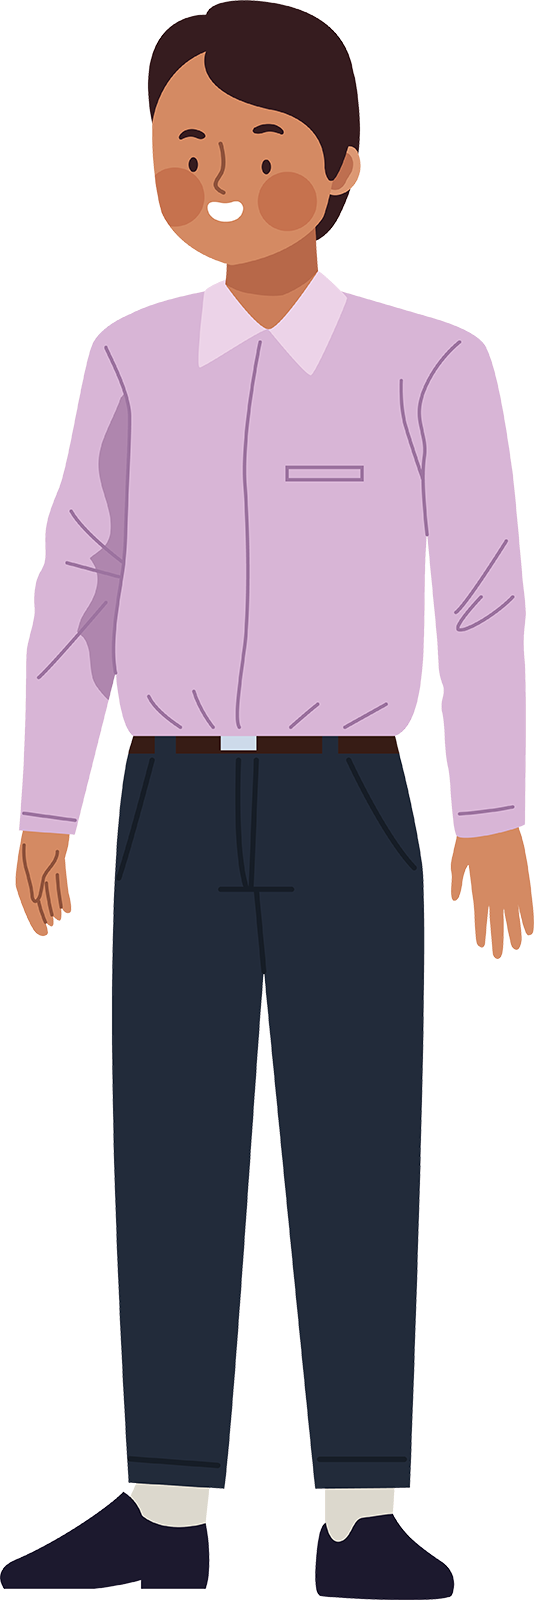
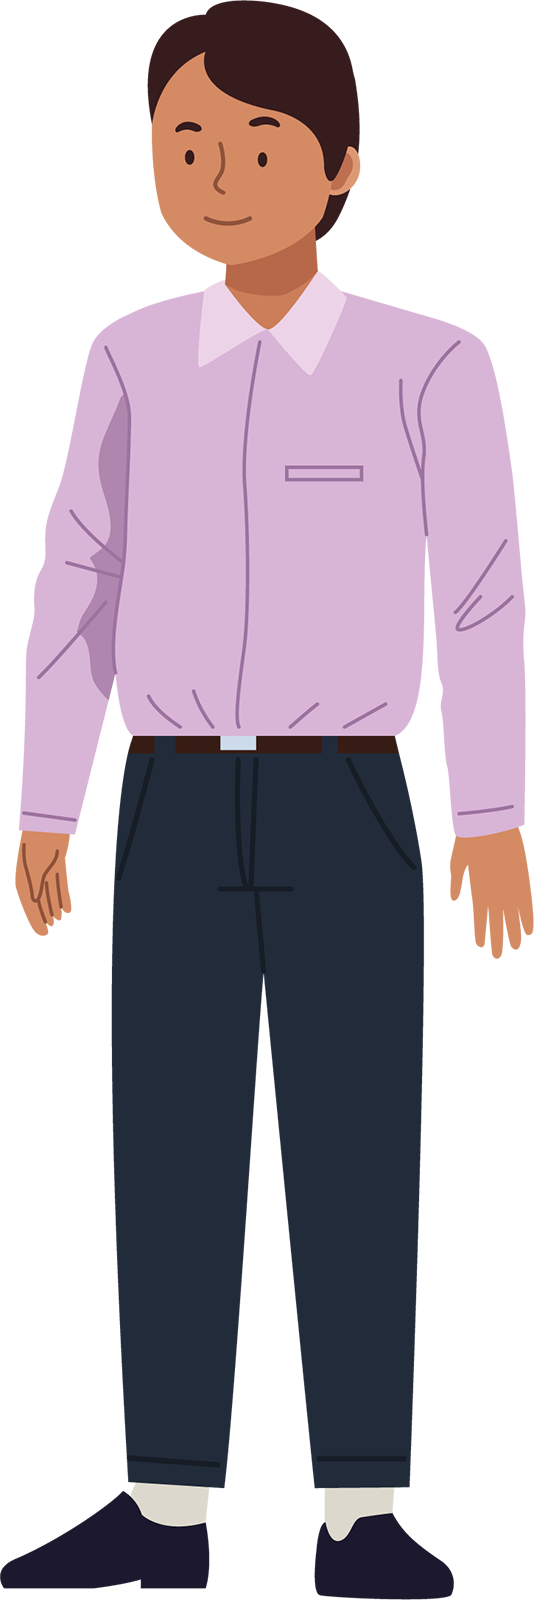
Comisaría terminada

diff --git a/src/scenes/bootScene.js b/src/scenes/bootScene.js
@@ -237,6 +237,7 @@ export default class BootScene extends Phaser.Scene {
         this.load.image('laura', 'laura.png');
         this.load.image('paula', 'paula.png');
         this.load.image('harasser', 'harasser.png');
+        this.load.image('officer', 'officer.png');
     }
 
     loadBackgrounds() {
@@ -256,6 +257,9 @@ export default class BootScene extends Phaser.Scene {
         this.load.image('bedroomBg', 'bedroom.png');
         this.load.image('bedroomNightBg', 'bedroomNight.png');
         this.load.image('dream', 'dream.png');
+
+        this.load.image('policeStationBg', 'policeStation.png');
+
     }
 
     loadCreditsSceneAssets() {

diff --git a/src/scenes/gameLoop/scene6/routeB/Scene6PoliceStationRouteB.js b/src/scenes/gameLoop/scene6/routeB/Scene6PoliceStationRouteB.js
@@ -27,10 +27,11 @@ export default class Scene6PoliceStationRouteB extends BaseScene {
         let dadPortrait = new Portrait(this, "dad", dadTr, "dad");
         this.portraits.set("dad", dadPortrait);
         
-        // PENDIENTE
         // Retrato del agente
         let officerTr = this.portraitTr;
         officerTr.x =  this.CANVAS_WIDTH / 2 - this.CANVAS_WIDTH / 5;
+        officerTr.y += 100;
+        officerTr.scale *= 1.15;
         let officerPortrait = new Portrait(this, "officer", officerTr, "officer")
         officerPortrait.setFlipX(true);
         this.portraits.set("officer", officerPortrait);

diff --git a/src/managers/gameManager.js b/src/managers/gameManager.js
@@ -93,7 +93,7 @@ export default class GameManager {
         this.currentScene.scene.launch(UIsceneName);
         this.UIManager = this.currentScene.scene.get(UIsceneName);
 
-        this.changeScene("Scene6LunchRouteB", {});
+        this.changeScene("Scene6BedroomRouteB", {});
     }
 
 

diff --git a/README.md b/README.md
@@ -14,6 +14,24 @@ Todos los assets utilizados están acreditados con sus enlaces. En caso de no es
 
 Para los fondos, se ha aplicado una combinación de distintos filtros usando Photoshop. Como cada imagen es diferente, no siempre se aplican todos los filtros o con los mismos parámetros, pero el filtro más importante es el de cuarteado, que es con el que se consigue dar un efecto de gráfico vectorizado al fondo, usando la mayoría de veces 8 niveles, simplicidad del borde de entre 3 y 5, y fidelidad del borde 1. Luego, dependiendo de la imagen, se aplican también por encima efectos para modificar el brillo/contraste, y si la imagen pierde demasiado color, se duplica por encima sin filtro y se le aplica el modo de fusión de Color.
 
+* Personajes:
+    * [Madre](https://www.freepik.com/free-psd/flat-design-woman-character-isolated_158212343.htm#fromView=image_search_similar&page=2&position=12&uuid=28b09b97-a183-4cdb-92a0-fc8e91e565b0)
+    * [Padre](https://www.freepik.com/free-vector/elegant-businessman-standing-position-character_73261815.htm#fromView=image_search_similar&page=3&position=16&uuid=718d9d14-2873-4f8d-99da-973c0bd3d1fd)
+    * [Profesor](https://www.freepik.com/free-vector/elegant-businessman-with-folder-character_73261784.htm#fromView=image_search_similar&page=1&position=0&uuid=b767bb75-f73a-4137-b8c5-f0db54f51024)
+    * [Laura](https://www.freepik.es/psd-gratis/diseno-plano-mujer-caracter-aislado_158212345.htm)
+    * [Paula](https://www.freepik.es/psd-gratis/diseno-plano-mujer-caracter-aislado_158212338.htm)
+    * [Acosador](https://www.freepik.es/vector-gratis/diseno-coleccion-personas-seguras_6543322.htm)
+    * [Perro](https://www.freepik.es/vector-gratis/paquete-pitbull-diseno-plano_13961980.htm#fromView=search&page=1&position=31&uuid=c1221efd-fe66-455a-abfc-1eb70079105a&new_detail=true)
+    * [Policía](https://www.freepik.es/vector-gratis/concepto-recogida-policia_8621529.htm#fromView=search&page=1&position=43&uuid=32b0ac4b-a32f-49ac-80fa-f7d4051e5314)
+
+* Fondos:
+    * [Clase](https://www.lavozdigital.es/cadiz/provincia/lvdi-mas-140000-alumnos-arrancan-este-lunes-clases-institutos-cadiz-201909141400_noticia.html?ref=https%3A%2F%2Fwww.lavozdigital.es%2Fcadiz%2Fprovincia%2Flvdi-mas-140000-alumnos-arrancan-este-lunes-clases-institutos-cadiz-201909141400_noticia.html)
+    * [Cafetería](https://oxfordhigh.gdst.net/senior-school/school-life/food-in-the-senior-school/)
+    * [Salón](https://www.booking.com/hotel/gr/tinker-bell-by-halu-colorful-family-apt.es.html)
+    * [Habitación](https://xn--mueblesocaa-beb.es/juveniles-modernos/1685-dormitorio-juvenil-030.html)
+    * [Nubes](https://www.freepik.es/vector-gratis/fondo-nubes-humo-profundidad_26443430.htm#fromView=search&page=1&position=20&uuid=407cd797-1ef7-489d-86fc-eea3f61efb6b&new_detail=true)
+    * [Estación de policía](https://www.laopiniondezamora.es/zamora-ciudad/2020/11/11/comisaria-policia-nacional-zamora-amplia-23041677.html)
+
 * UI:
     * [Portátil](https://www.freepik.es/psd-gratis/laptop-moderno-aislado_54999402.htm#fromView=search&page=1&position=28&uuid=531963f8-ac6a-4d74-8e2a-19fdb4186064&new_detail=true)
     * [Ventana](https://www.freepik.es/search?ai=excluded&format=search&last_filter=query&last_value=forest&query=forest&selection=1&type=psd)
@@ -42,23 +60,6 @@ Para los fondos, se ha aplicado una combinación de distintos filtros usando Pho
     * [Fuente del logo](https://font.download/font/corpid-light)
     * [Fuente de los diálogos](https://fonts.google.com/specimen/Roboto)
     * [Fotos de perfil por defecto](https://www.freepik.es/vector-gratis/circulos-usuarios-blanco_134996379.htm#fromView=search&page=1&position=4&uuid=dd0f32ad-fa89-406d-a854-53066bbcb378&new_detail=true)
-* Personajes:
-    * [Madre](https://www.freepik.com/free-psd/flat-design-woman-character-isolated_158212343.htm#fromView=image_search_similar&page=2&position=12&uuid=28b09b97-a183-4cdb-92a0-fc8e91e565b0)
-    * [Padre](https://www.freepik.com/free-vector/elegant-businessman-standing-position-character_73261815.htm#fromView=image_search_similar&page=3&position=16&uuid=718d9d14-2873-4f8d-99da-973c0bd3d1fd)
-    * [Profesor](https://www.freepik.com/free-vector/elegant-businessman-with-folder-character_73261784.htm#fromView=image_search_similar&page=1&position=0&uuid=b767bb75-f73a-4137-b8c5-f0db54f51024)
-    * [Laura](https://www.freepik.es/psd-gratis/diseno-plano-mujer-caracter-aislado_158212345.htm)
-    * [Paula](https://www.freepik.es/psd-gratis/diseno-plano-mujer-caracter-aislado_158212338.htm)
-    * [Acosador](https://www.freepik.es/vector-gratis/diseno-coleccion-personas-seguras_6543322.htm)
-    * [Perro](https://www.freepik.es/vector-gratis/paquete-pitbull-diseno-plano_13961980.htm#fromView=search&page=1&position=31&uuid=c1221efd-fe66-455a-abfc-1eb70079105a&new_detail=true)
-    * [Policía](https://www.freepik.es/vector-gratis/concepto-recogida-policia_8621529.htm#fromView=search&page=1&position=43&uuid=32b0ac4b-a32f-49ac-80fa-f7d4051e5314)
-
-* Fondos:
-    * [Clase](https://www.lavozdigital.es/cadiz/provincia/lvdi-mas-140000-alumnos-arrancan-este-lunes-clases-institutos-cadiz-201909141400_noticia.html?ref=https%3A%2F%2Fwww.lavozdigital.es%2Fcadiz%2Fprovincia%2Flvdi-mas-140000-alumnos-arrancan-este-lunes-clases-institutos-cadiz-201909141400_noticia.html)
-    * [Cafetería](https://oxfordhigh.gdst.net/senior-school/school-life/food-in-the-senior-school/)
-    * [Salón](https://www.booking.com/hotel/gr/tinker-bell-by-halu-colorful-family-apt.es.html)
-    * [Habitación](https://xn--mueblesocaa-beb.es/juveniles-modernos/1685-dormitorio-juvenil-030.html)
-    * [Nubes](https://www.freepik.es/vector-gratis/fondo-nubes-humo-profundidad_26443430.htm#fromView=search&page=1&position=20&uuid=407cd797-1ef7-489d-86fc-eea3f61efb6b&new_detail=true)
-
 
 <br>
 
